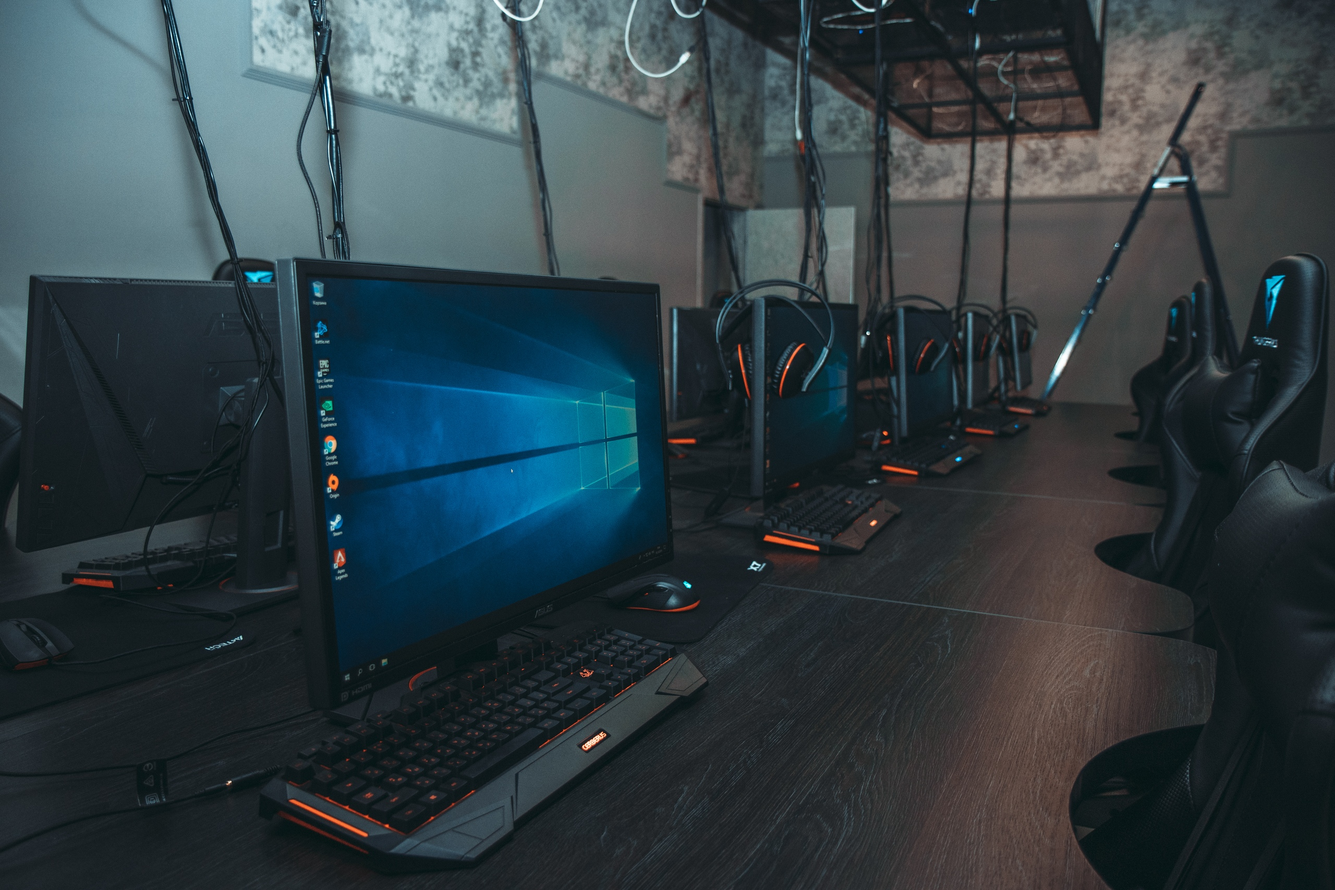
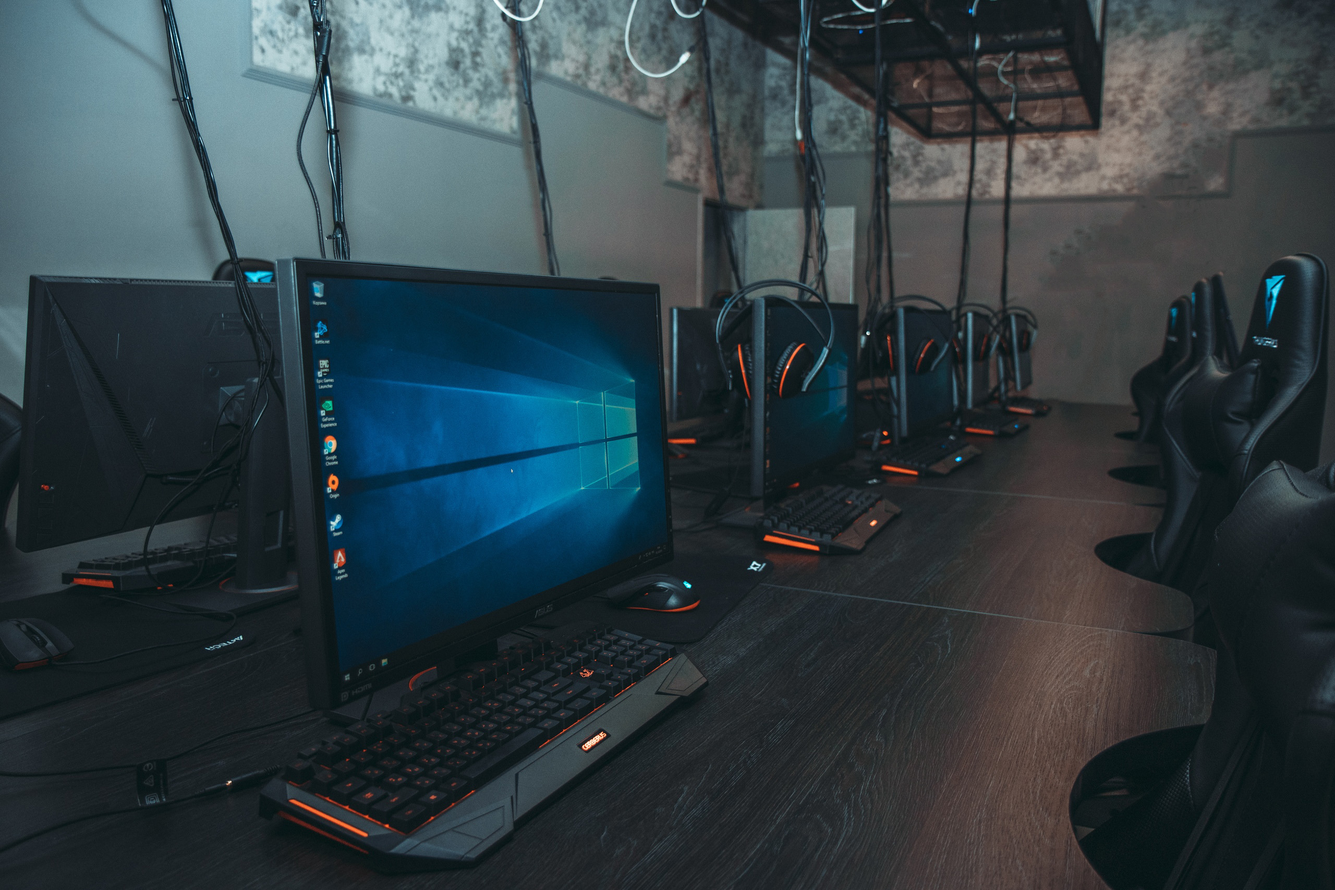
new view of certification block

Changed region(s): [[0.7812, 0.0621, 0.9375, 0.4347]]

diff --git a/main.css b/main.css
@@ -594,10 +594,23 @@ footer {
   background-attachment: fixed;
   background-position: center center;
 }
-.certification {
+.certification-wrapper {
   padding-top: 60px;
-  width: 100%;
+  display: flex;
+  justify-content: center;
+  align-items: center;
+}
+.certification {
+  position: relative;
+  width: 60%;
   overflow-x: hidden;
+}
+.certification h2 {
+  position: absolute;
+  bottom: 10px;
+  right: 10px;
+  padding: 4px 20px;
+  background-color: #000a;
 }
 .certification h2 img {
   height: 100px;
@@ -605,9 +618,7 @@ footer {
   padding-bottom: 5px;
 }
 .certification > img {
-  width: 60%;
-  margin-left: 50%;
-  transform: translateX(-50%);
+  width: 100%;
 }
 .video-holder {
   background-image: url('images/grd.jpg');
@@ -755,14 +766,18 @@ footer {
   .lounge {
     padding-bottom: 40px;
   }
+  .certification h2 {
+    width: 100%;
+    bottom: 0;
+    right: 0;
+    padding-top: 10px;
+  }
   .certification h2 img {
     display: block;
     margin-left: 50%;
     transform: translateX(-50%);
   }
-  .certification > img {
+  .certification {
     width: 100%;
-    margin: 0;
-    transform: none;
   }
 }

diff --git a/index.html b/index.html
@@ -1,3 +1,11 @@
+<!-- <?php
+  if (empty($_SERVER['HTTPS']) || $_SERVER['HTTPS'] === "off") {
+    $location = 'https://' . $_SERVER['HTTP_HOST'] . $_SERVER['REQUEST_URI'];
+    header('HTTP/1.1 301 Moved Permanently');
+    header('Location: ' . $location);
+    exit;
+  }
+?> -->
 <!DOCTYPE html>
 <html lang="ru">
 <head>
@@ -80,9 +88,11 @@
     </div>
   </div>
   <div class="bg-gradient">
-    <div class="certification">
-      <h2>Клуб сертифицирован nvidia<img src="images/nvidia-gf-certified-three-star-logo-rgb-for-screen.png" alt="NVIDIA CERTIFICATION"></h2>
-      <img src="images/hall.jpg" alt="hall">
+    <div class="certification-wrapper">
+      <div class="certification">
+        <h2>Клуб сертифицирован nvidia<img src="images/nvidia-gf-certified-three-star-logo-rgb-for-screen.png" alt="NVIDIA CERTIFICATION"></h2>
+        <img src="images/hall.jpg" alt="hall">
+      </div>
     </div>
     <div class="hall" id="halls">
       <h2 class="section-name">Основной зал</h2>
